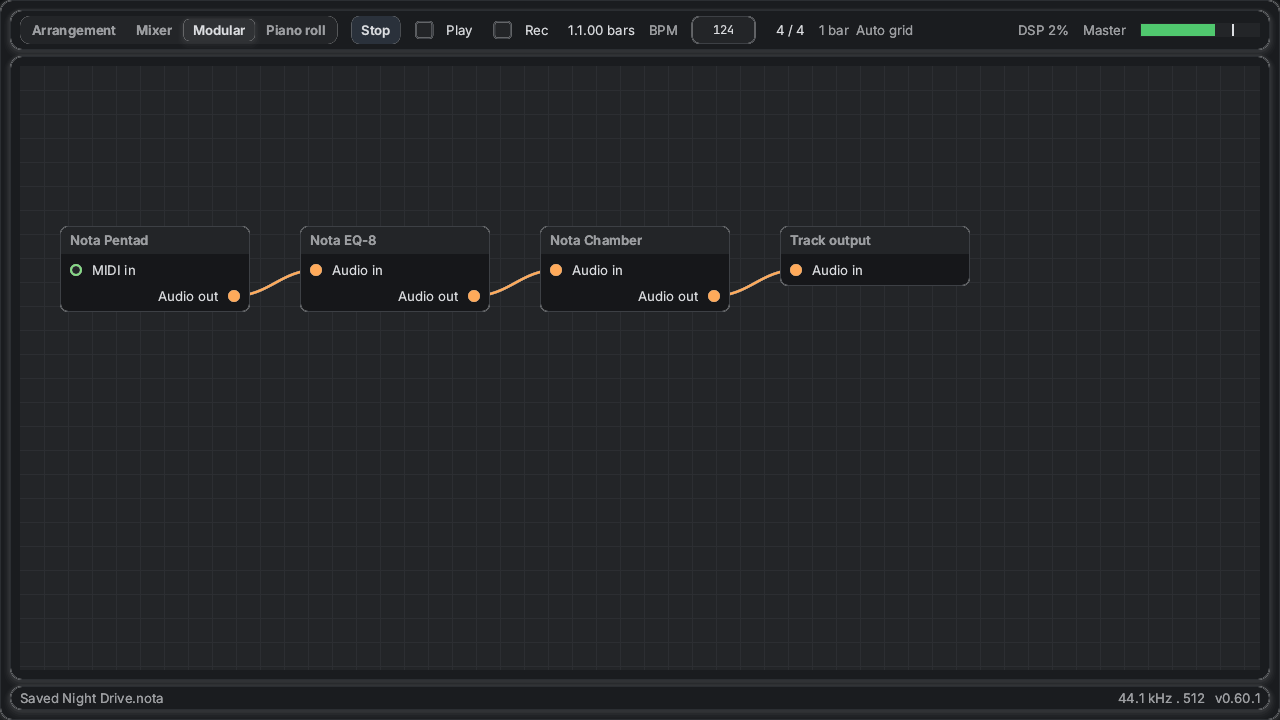
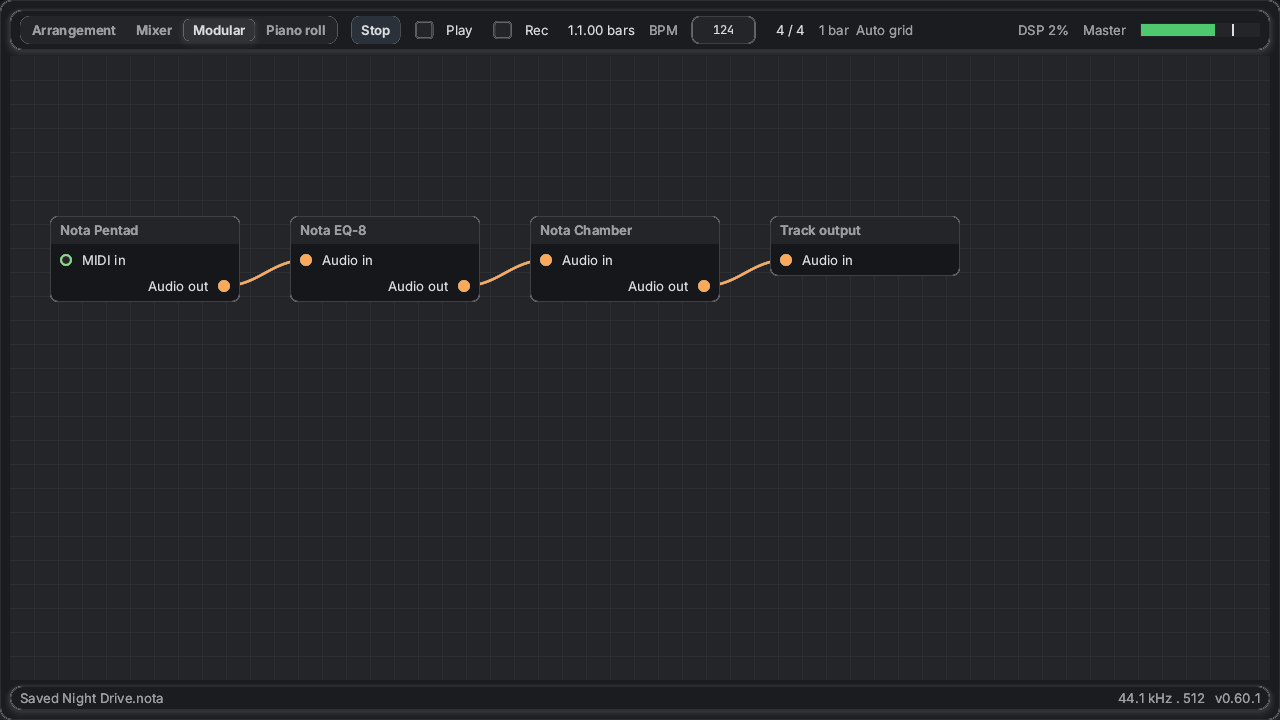
ui: Layout.exact keeps zero padding and gap; nota demo uses flush containers
Claude-Session: https://claude.ai/code/session_01VmEee8L8hufaEg5kRznT4c

diff --git a/ui/AGENTS.md b/ui/AGENTS.md
@@ -39,3 +39,4 @@ What is not obvious from the code of this library. The rules that hold for every
 - `aa.odin` builds anti-aliased shapes as triangle lists with a coverage per vertex (fringe of NanoVG, see `docs/ANTI_ALIASING.md`); a painter draws them through `fill_mesh` and keeps its storage in `Painter.mesh` (`ui_default.SmoothReady`: without storage everything falls back to the plain shapes, test painters have none, so stored test pictures of those are unchanged). Glue sets `fill_mesh` + `mesh` (`glue_karl2d`, `glue_raylib`, `kit`); karl2d needs the fork's `draw_colored_triangles` (uncommitted in the fork: its rules forbid committing there without being told). New shapes go in `aa.odin` (pure, tested by their covered area in `aa_test.odin`) and `default_style/smooth.odin` (painter side).
 - Demo `smooth` (`demo_smooth.odin`) shows the shapes with a toggle for the plain ones; the stored captures of all demos were regenerated when rounded corners, ports and cables became soft.
 - Demo `nota` (`demo_nota.odin`): four screens of the DAW Nota (arrangement, mixer, modular, piano roll) from its screenshots; hand drawn parts are marked `GAP` and match `docs/NOTA_GAP.md` (what Nota has that the library lacks, by priority). A script stops its clock (`state.frozen`) so the pictures `nota_*` are the same every run. When a gap is closed, use the widget in the demo, remove its `GAP` mark and its row.
+- `Layout.exact = true`: padding and gap are taken as they are, also zero (a zero padding and gap otherwise means "the style's"); panels, windows, `UiRow` and `UiColumn` honor it. Use `UiRow`/`UiColumn` for containers that draw nothing, `UiPanel` with `exact` for flush drawn sections.
